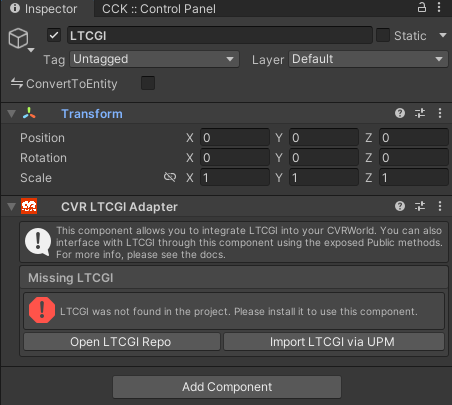
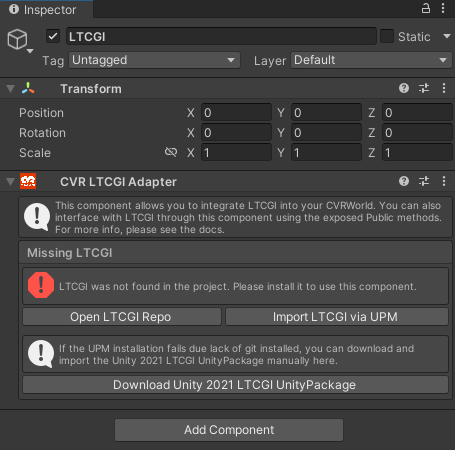
Updated ltcgi-adapter.md

diff --git a/docs/cck/components/ltcgi-adapter.md b/docs/cck/components/ltcgi-adapter.md
@@ -1,6 +1,7 @@
 # CVR LTCGI Adapter <div class="whitelisted" data-list="W"></div>
 
-This component provides the interface to set up and control [LTCGI](<https://ltcgi.dev/>) in your World
+This component provides the interface to set up and control [LTCGI](<https://ltcgi.dev/>){:target="_blank"} in your
+World
 
 ### Setup
 
@@ -9,7 +10,9 @@ The component will guide you to set up LTCGI
 1. Pick any game object and select `Add Component` and look for `CVR LTCGI Adapter` in `Chillout VR`. You should get
    something like this:<br>![1-ltcgi-package-missing.png](images/ltcgi-adapter/1-ltcgi-package-missing.png)
 2. You can now click `Import LTCGI via UPM`, this will download and install the LTCGI package in your unity project.<br>
-   Note: If you already have it in your project you may skip this step
+   **Note1:** If you already have it in your project you may skip this step<br>
+   **Note2:** If this doesn't work, (for example gives an error saying git is not installed), use
+   the `Download Unity 2021 LTCGI UnityPackage` button
 3. If LTCGI is installed in you project you should see something like
    this:<br>![2-ltcgi-controller-missing.png](images/ltcgi-adapter/2-ltcgi-controller-missing.png)
 4. Now click on `Create LTCGI Controller`, so it adds the LTCGI Controller component to the game object
@@ -34,6 +37,20 @@ This is not required for LTCGI to work, it just provides a bit more control for 
 
 ![button-toggle-global-state.png](images/ltcgi-adapter/button-toggle-global-state.png)
 
+### Enable LTCGI on Avatars
+
+Some shaders have `LTCGI` compatibility, but they only show the option if the LTCGI package is installed. Poiyomi shader
+is compatible for example.
+
+**Note1:** LTCGI has a noticeable performance impact, it's recommended to add a toggle to enable or disable on the
+avatar
+
+**Note2:** We're not using the original `LTCGI` repo/package because it doesn't support Unity 2021, the changes to
+support were requested on the official repo.
+
+You can get the latest Unity 2021 compatible package
+here: <https://github.com/kafeijao/ltcgi/releases/latest>{:target="_blank"}
+
 ### Removing the LTCGI package
 
 If you want to remove the LTCGI package from your project, you can go to `Window` -> `Package Manager`, find the LTCGI
@@ -45,3 +62,26 @@ After doing this, you should have some errors because you also need to remove th
 2. On the left select `Player`
 3. Scroll almost to the bottom where there's a list with `Scripting Define Symbols`
 4. Look for the entry `LTCGI_INCLUDED` and remove it. This should ensure the package is fully removed.
+
+### Troubleshooting
+
+#### Incompatible LTCGI Package
+
+> Library\PackageCache\at.pimaker.ltcgi@0242d67e55\Editor\LTCGI_Controller.cs(151,58): error CS0117: 'SceneManager' does
+> not contain a definition for 'loadedSceneCount'
+
+![TroubleshootingIncompatibleLTCGI.png](images/ltcgi-adapter/TroubleshootingIncompatibleLTCGI.png)
+
+**Solution:** You're using a version of LTCGI that is not compatible with Unity 2021. You need to remove the
+package (`Window` -> `Package Manager`) and then import a Unity 2021 compatible version. It can be acquired
+here: <https://github.com/kafeijao/ltcgi/releases/latest>{:target="_blank"}
+
+#### Broken/Incomplete LTCGI installation
+
+> Assets\ABI.CCK\Components\CVRLTCGIAdapter.cs(103,27): error CS0246: The type or namespace name 'LTCGI_UdonAdapter'
+> could not be found (are you missing a using directive or an assembly reference?)
+
+![TroubleshootingMissingLTCGI.png](images/ltcgi-adapter/TroubleshootingMissingLTCGI.png)
+
+**Solution:** Either install the LTCGI package in your project, or [fully remove it](#removing-the-ltcgi-package)
+
